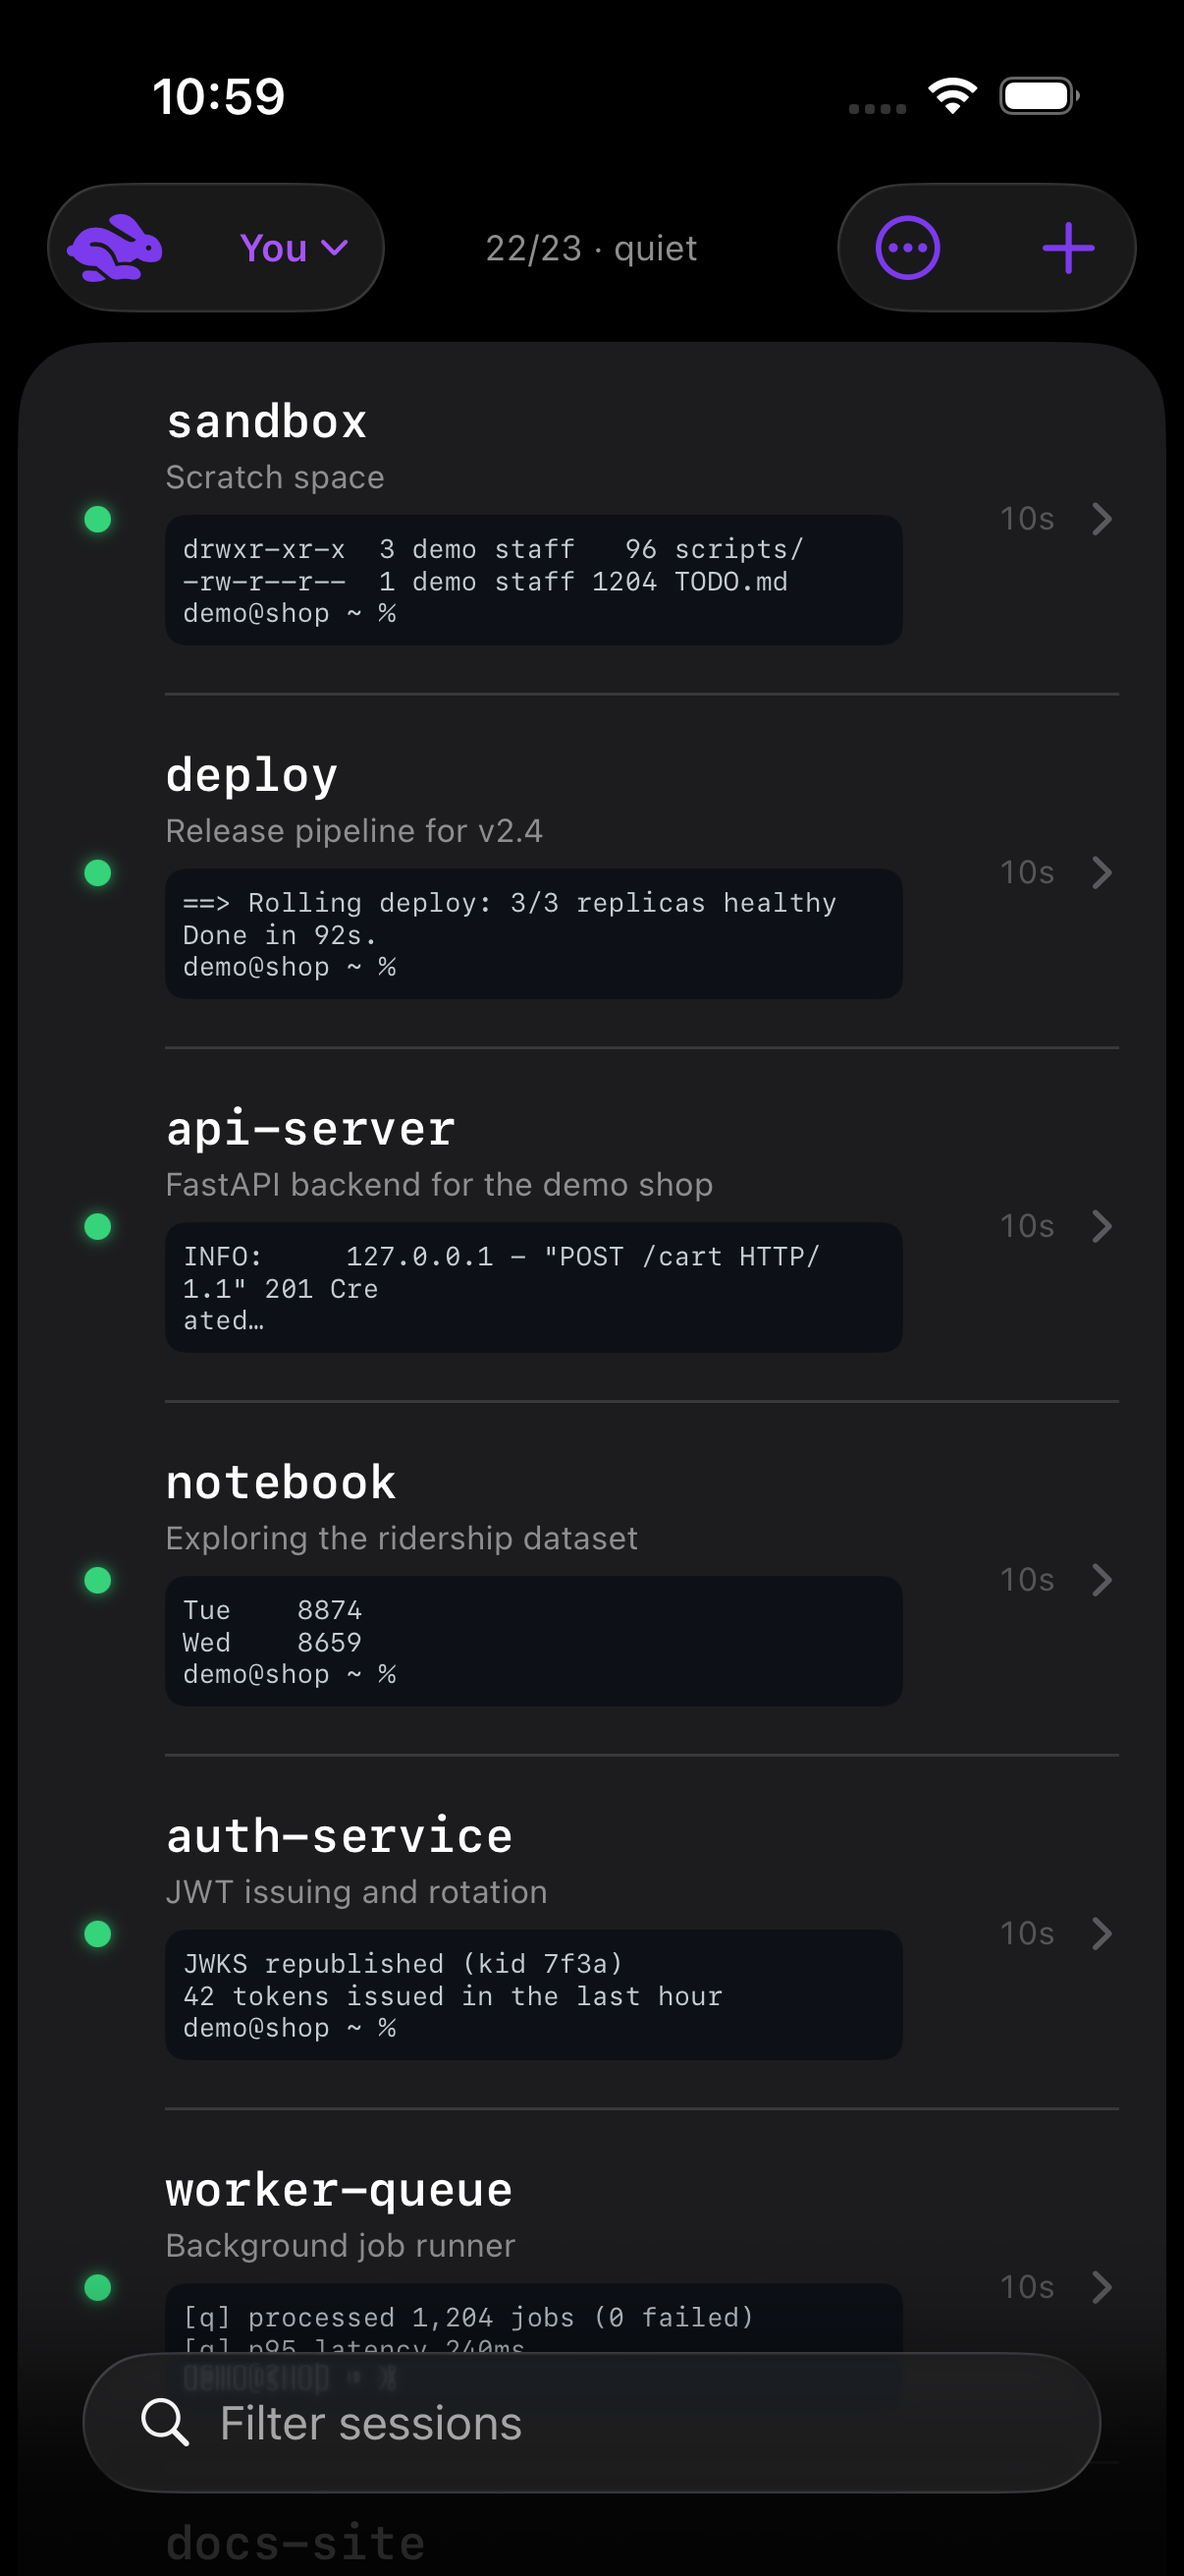
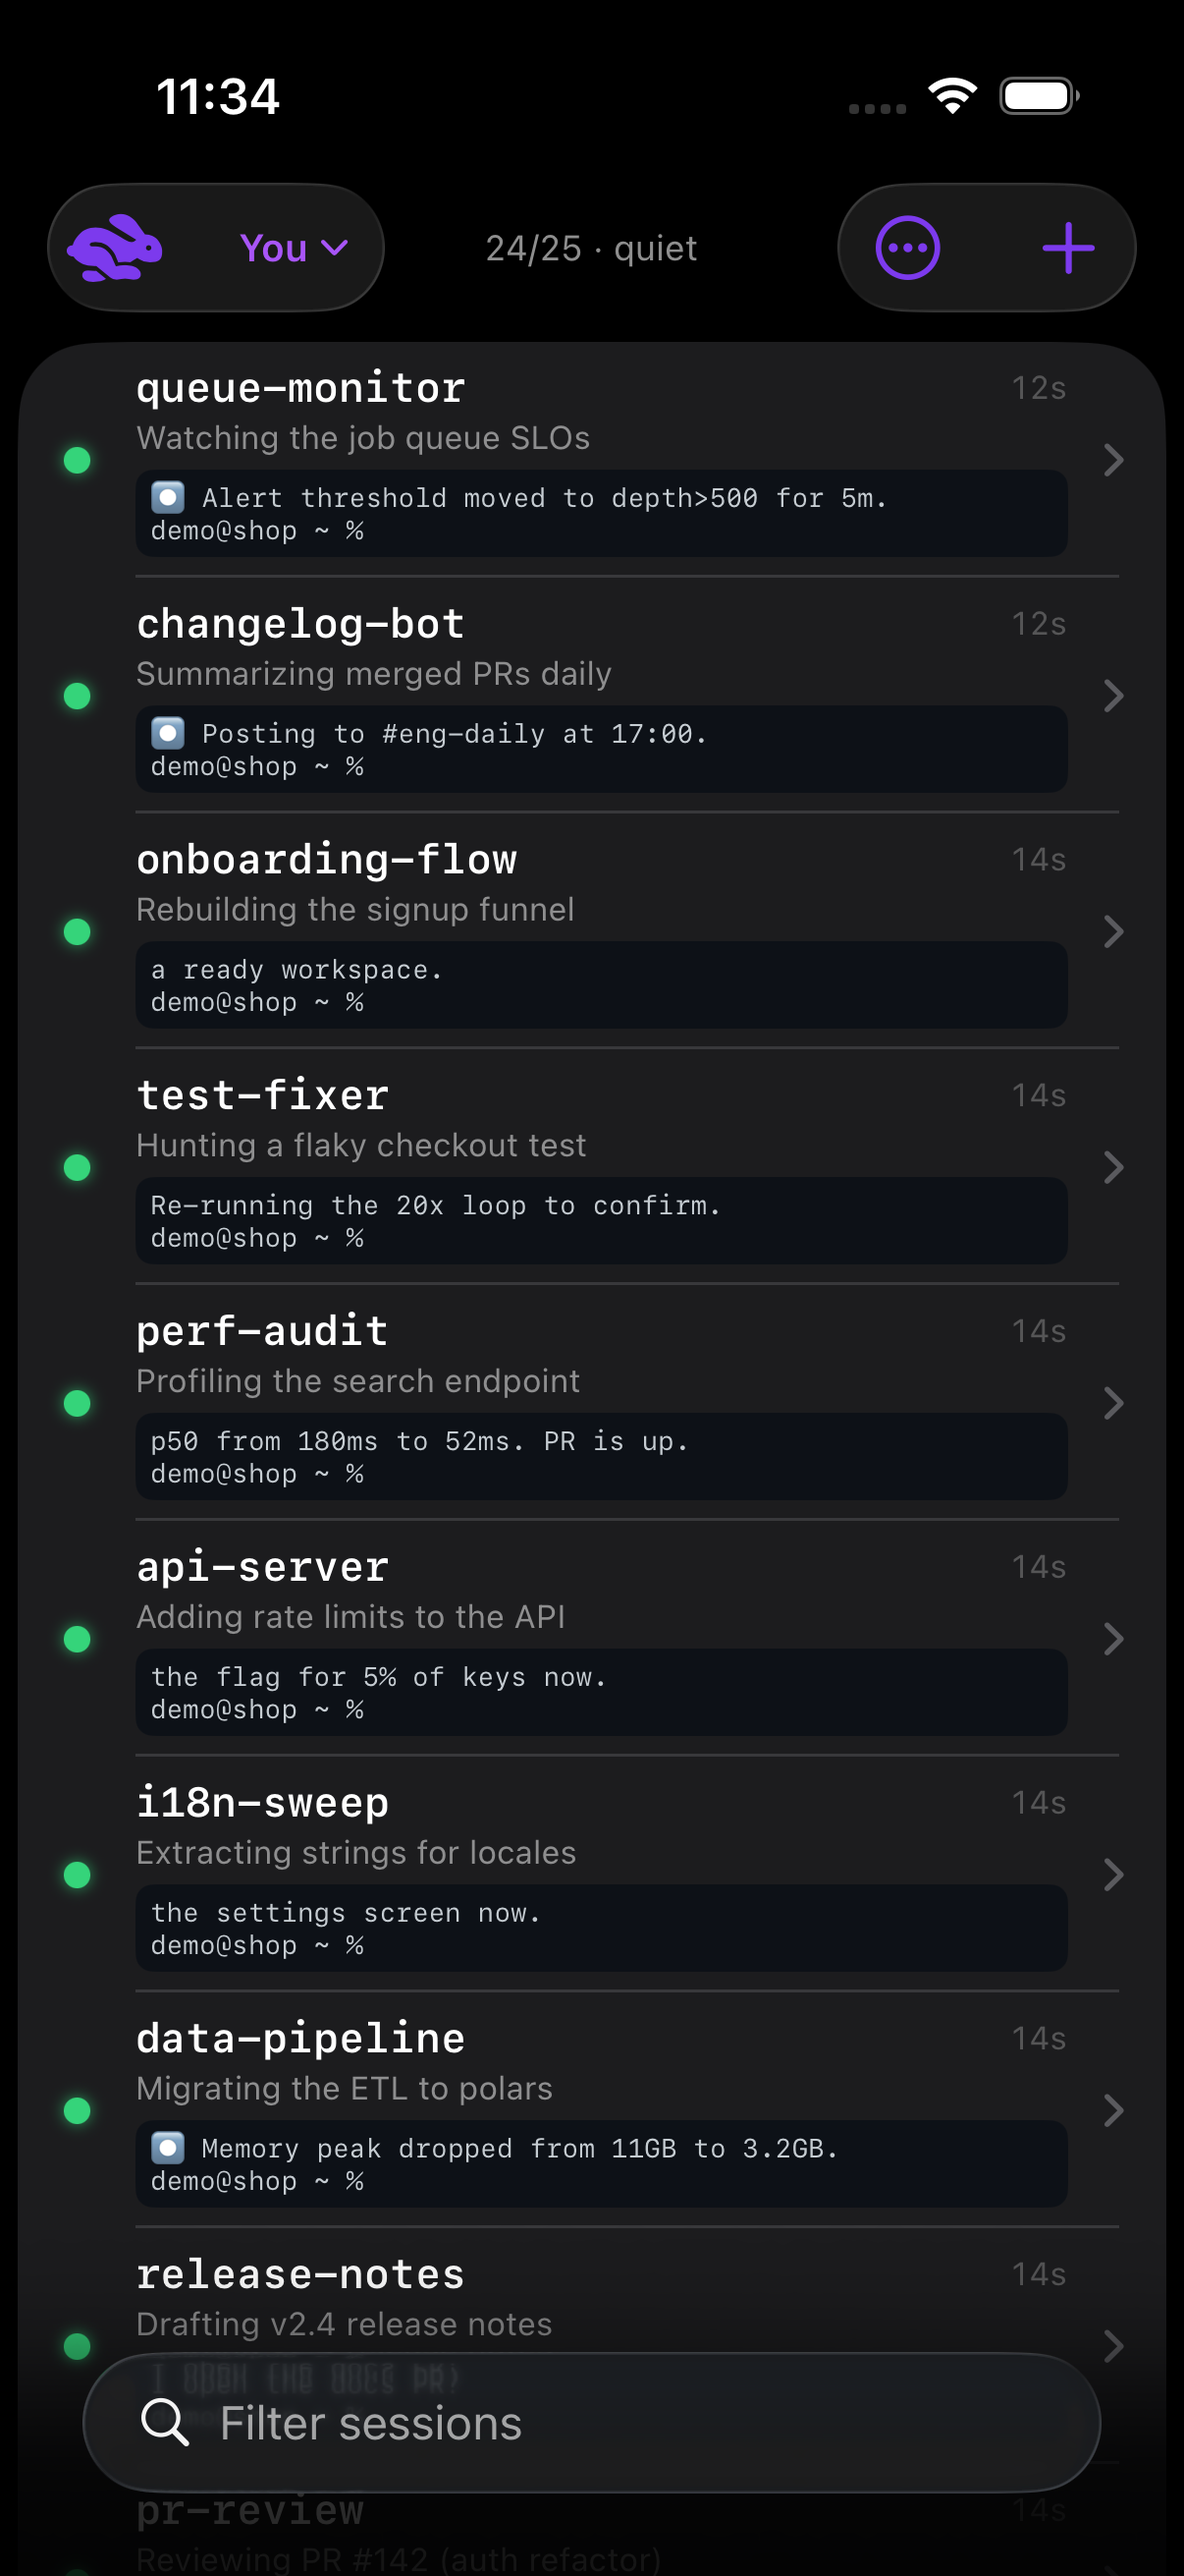
feat(list): dense rows — inline time, 2-line preview, tight insets; agentic screenshots
~9 rows visible where ~5.5 fit, nothing dropped. Demo fleet rebuilt
with agent-transcript content; walls reshot under a top-10 guard.
PLAN 43 queues the hopboard link for when its repo is public.

diff --git a/Sources/HopSpike/SessionsView.swift b/Sources/HopSpike/SessionsView.swift
@@ -241,6 +241,8 @@ struct SessionsView: View {
         // element the List owns. A wash the width of the row is what makes the
         // one that wants you findable while scrolling past nineteen.
         .listRowBackground(session.attention ? Color.hopAttention.opacity(0.13) : nil)
+        // Dense rows: the default insets spent ~14pt per row on air.
+        .listRowInsets(EdgeInsets(top: 5, leading: 12, bottom: 5, trailing: 12))
         .onAppear { visibleRows.insert(session.internalName) }
         .onDisappear { visibleRows.remove(session.internalName) }
         .swipeActions(edge: .trailing, allowsFullSwipe: false) {
@@ -963,11 +965,11 @@ struct SessionRow: View {
                         .sonar(when: session.busy && session.live, color: .hopLive)
                 }
             }
-            .frame(width: 22)
-            VStack(alignment: .leading, spacing: 3) {
+            .frame(width: 16)
+            VStack(alignment: .leading, spacing: 2) {
                 HStack(spacing: 6) {
                     Text(session.name)
-                        .font(.system(.body, design: .monospaced).weight(.semibold))
+                        .font(.system(.subheadline, design: .monospaced).weight(.semibold))
                         // At accessibility sizes a name wrapped mid-word
                         // ("Sol-" / "stice"), which reads as a broken row.
                         // Shrink first, truncate second, never hyphenate.
@@ -992,20 +994,26 @@ struct SessionRow: View {
                         Image(systemName: "eye.fill").font(.system(size: 9))
                             .foregroundStyle(.secondary)
                     }
-
+                    Spacer(minLength: 4)
+                    // Inline, not a trailing column: the column reserved a
+                    // whole gutter for four characters (Jian: the list "is
+                    // not using the screen real estate efficiently").
+                    Text(session.relativeTime)
+                        .font(.caption2.monospacedDigit())
+                        .foregroundStyle(.tertiary)
                 }
                 if !session.tagline.isEmpty {
-                    Text(session.tagline).font(.caption).foregroundStyle(.secondary).lineLimit(1)
+                    Text(session.tagline).font(.caption2).foregroundStyle(.secondary).lineLimit(1)
                 } else if !session.shortCwd.isEmpty {
                     Text(session.shortCwd)
-                        .font(.caption).foregroundStyle(.secondary)
+                        .font(.caption2).foregroundStyle(.secondary)
                         .lineLimit(1).truncationMode(.head)
                 }
                 if let preview, !preview.isEmpty {
                     // Coloured when the session has a colour report — the
                     // same ink the tiles use — with the plain text as the
                     // fallback, not a second code path.
-                    Text(screen.flatMap { TileInk.snippet($0, lines: 3) }
+                    Text(screen.flatMap { TileInk.snippet($0, lines: 2) }
                          ?? AttributedString(preview))
                         .font(.system(size: 9, design: .monospaced))
                         // The preview is a glance aid, not body text. Letting
@@ -1015,18 +1023,14 @@ struct SessionRow: View {
                         // scale all the way.
                         .dynamicTypeSize(...DynamicTypeSize.large)
                         .foregroundStyle(.secondary.opacity(0.85))
-                        .lineLimit(3)
+                        .lineLimit(2)
                         .multilineTextAlignment(.leading)
                         .frame(maxWidth: .infinity, alignment: .leading)
-                        .padding(6)
-                        .background(Color.hopSurface, in: RoundedRectangle(cornerRadius: 7))
-                        .padding(.top, 3)
+                        .padding(.horizontal, 5).padding(.vertical, 4)
+                        .background(Color.hopSurface, in: RoundedRectangle(cornerRadius: 6))
+                        .padding(.top, 2)
                 }
             }
-            Spacer()
-            Text(session.relativeTime)
-                .font(.caption2.monospacedDigit())
-                .foregroundStyle(.tertiary)
         }
         .padding(.vertical, 2)
         // One row = one utterance. Element-by-element, VoiceOver would read a

diff --git a/PLAN.md b/PLAN.md
@@ -483,4 +483,27 @@ identity in tests (the coordinate-tap workaround is gone; the e2e
 taps buttons["Copy selection"] and the marker still witnesses the
 copied word).
 
-## 42. (space for Jian's next reports)
+## 42. [DONE 2026-07-30] List facelift + agentic screenshots
+Jian: the list "is not using the screen real estate efficiently —
+hide it or do a face lift"; and "examples would be better if they are
+agentic." Facelift chosen over hiding (the list uniquely carries
+taglines, swipe actions and grouping): time inline on the name line
+(the trailing column spent a gutter on four characters), subheadline
+name, caption2 tagline, 2-line preview with tighter chrome, 5pt row
+insets — ~9 visible rows where ~5.5 fit before, nothing dropped. The
+demo screenshot fleet was rebuilt AGENTIC (⏺/⎿ transcript content,
+task-shaped taglines: PR review, flaky-test hunt, perf audit…) and
+both wall shots retaken under a top-10 cleanliness guard (the denser
+list shows more rows, so the guard grew with it; his brand-new
+hopboard session kept topping the fleet mid-shoot and had to be
+waited out).
+
+## 43. [GATED on Jian's hopboard repo going public] Link hopboard
+Jian: hopboard (Flowboard iOS voice keyboard) is going public; hop-ios
+should link it for dictation — "free, better than Apple native, close
+to paid app level." When the repo URL exists: a README paragraph in
+the keyboard section (hop keyboard for terminal symbols + hopboard
+for voice), and possibly an in-app pointer. A dead link is worse than
+none, so this waits for the URL.
+
+## 44. (space for Jian's next reports)

diff --git a/STATUS.md b/STATUS.md
@@ -239,6 +239,30 @@ hop.zhoulab.io appears as the default server (auth-gated). If any of
 that should retreat, say so — a prune + history rewrite is a
 mechanical round.
 
+## Dense rows, agentic examples (iteration 222)
+
+Two Jian directives in one round. The list facelift (chosen over
+hiding it — the list uniquely carries taglines, swipe actions and
+grouping): the trailing time column is gone (inline on the name
+line), fonts tightened one step, the preview dropped to two lines
+with slimmer chrome, and row insets halved. Roughly nine rows now fit
+where five and a half did. And the public screenshots are AGENTIC:
+the demo fleet was rebuilt with ⏺/⎿ transcript content and
+task-shaped taglines (PR review, flaky-test hunt, perf audit,
+release notes), so the examples finally look like what hop is for.
+
+The reshoot fought the usual reality: the denser list shows MORE
+rows, so the cleanliness guard grew to top-10 with two extra demo
+sessions (a leak peeked at row 9 on the first take, plus a recreated
+session missing its neutral prompt); and Jian's brand-new hopboard
+session kept topping the fleet mid-shoot — waited out rather than
+touched, since he was typing in it. hopboard itself is queued as
+PLAN 43: he plans to publish it, and hop-ios will link it for voice
+dictation once the URL exists.
+
+Demo fleet deleted, fleet verified clean, 93 unit + 28 UI green,
+strict zero.
+
 ## The screenshots stop testifying (iteration 221)
 
 Jian: "change my hop ios screenshots to not leak my real terminals —
